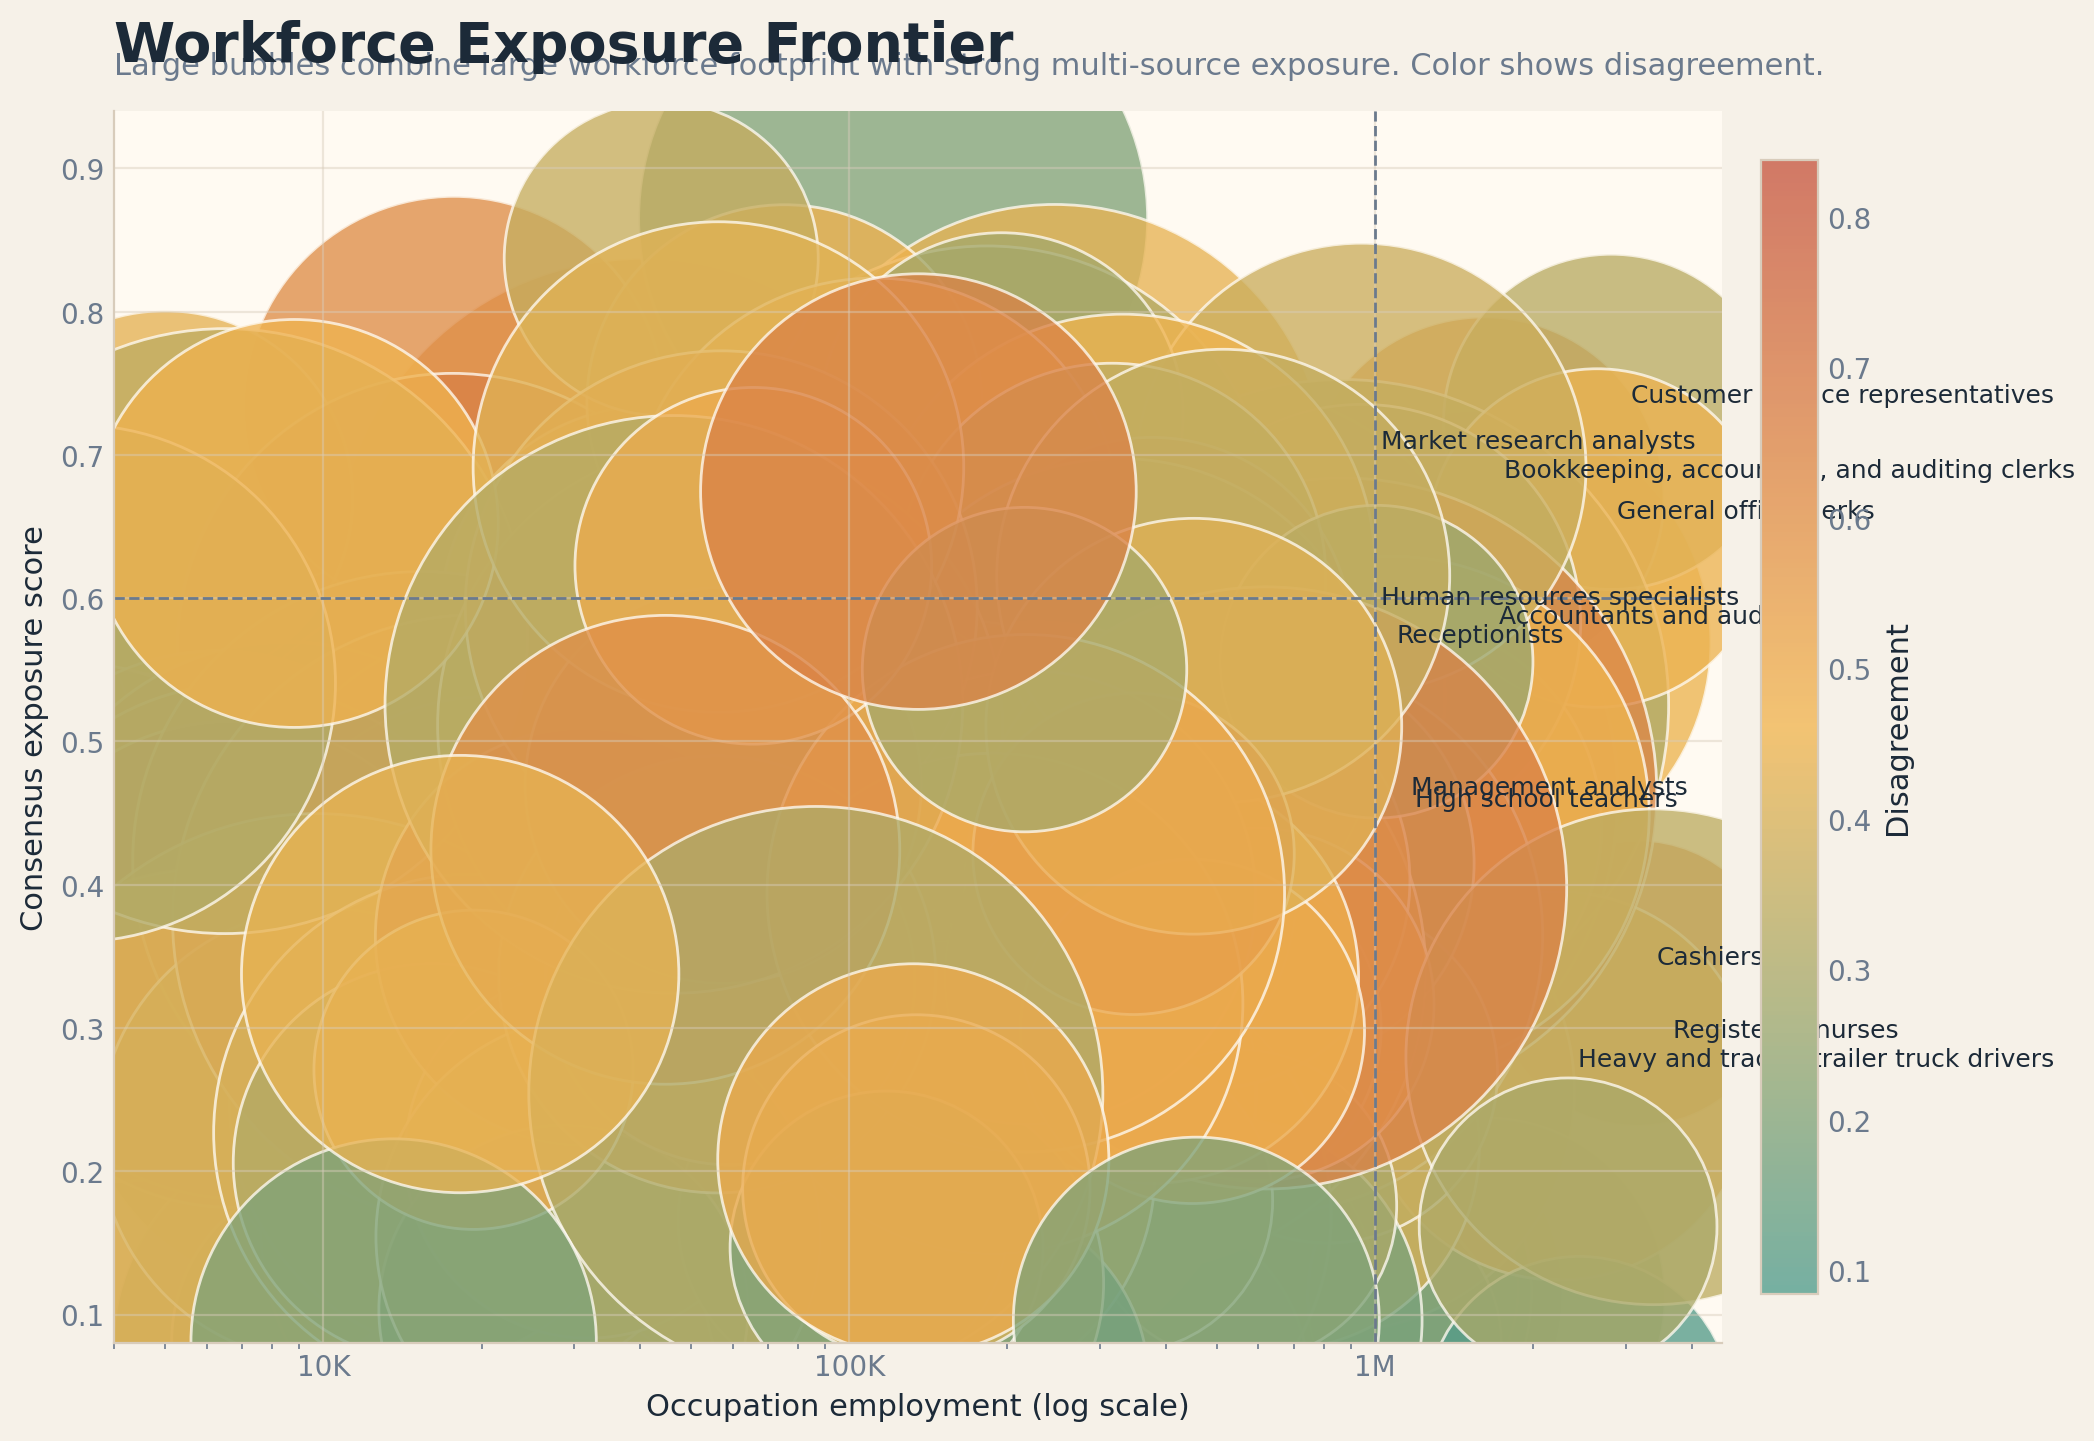
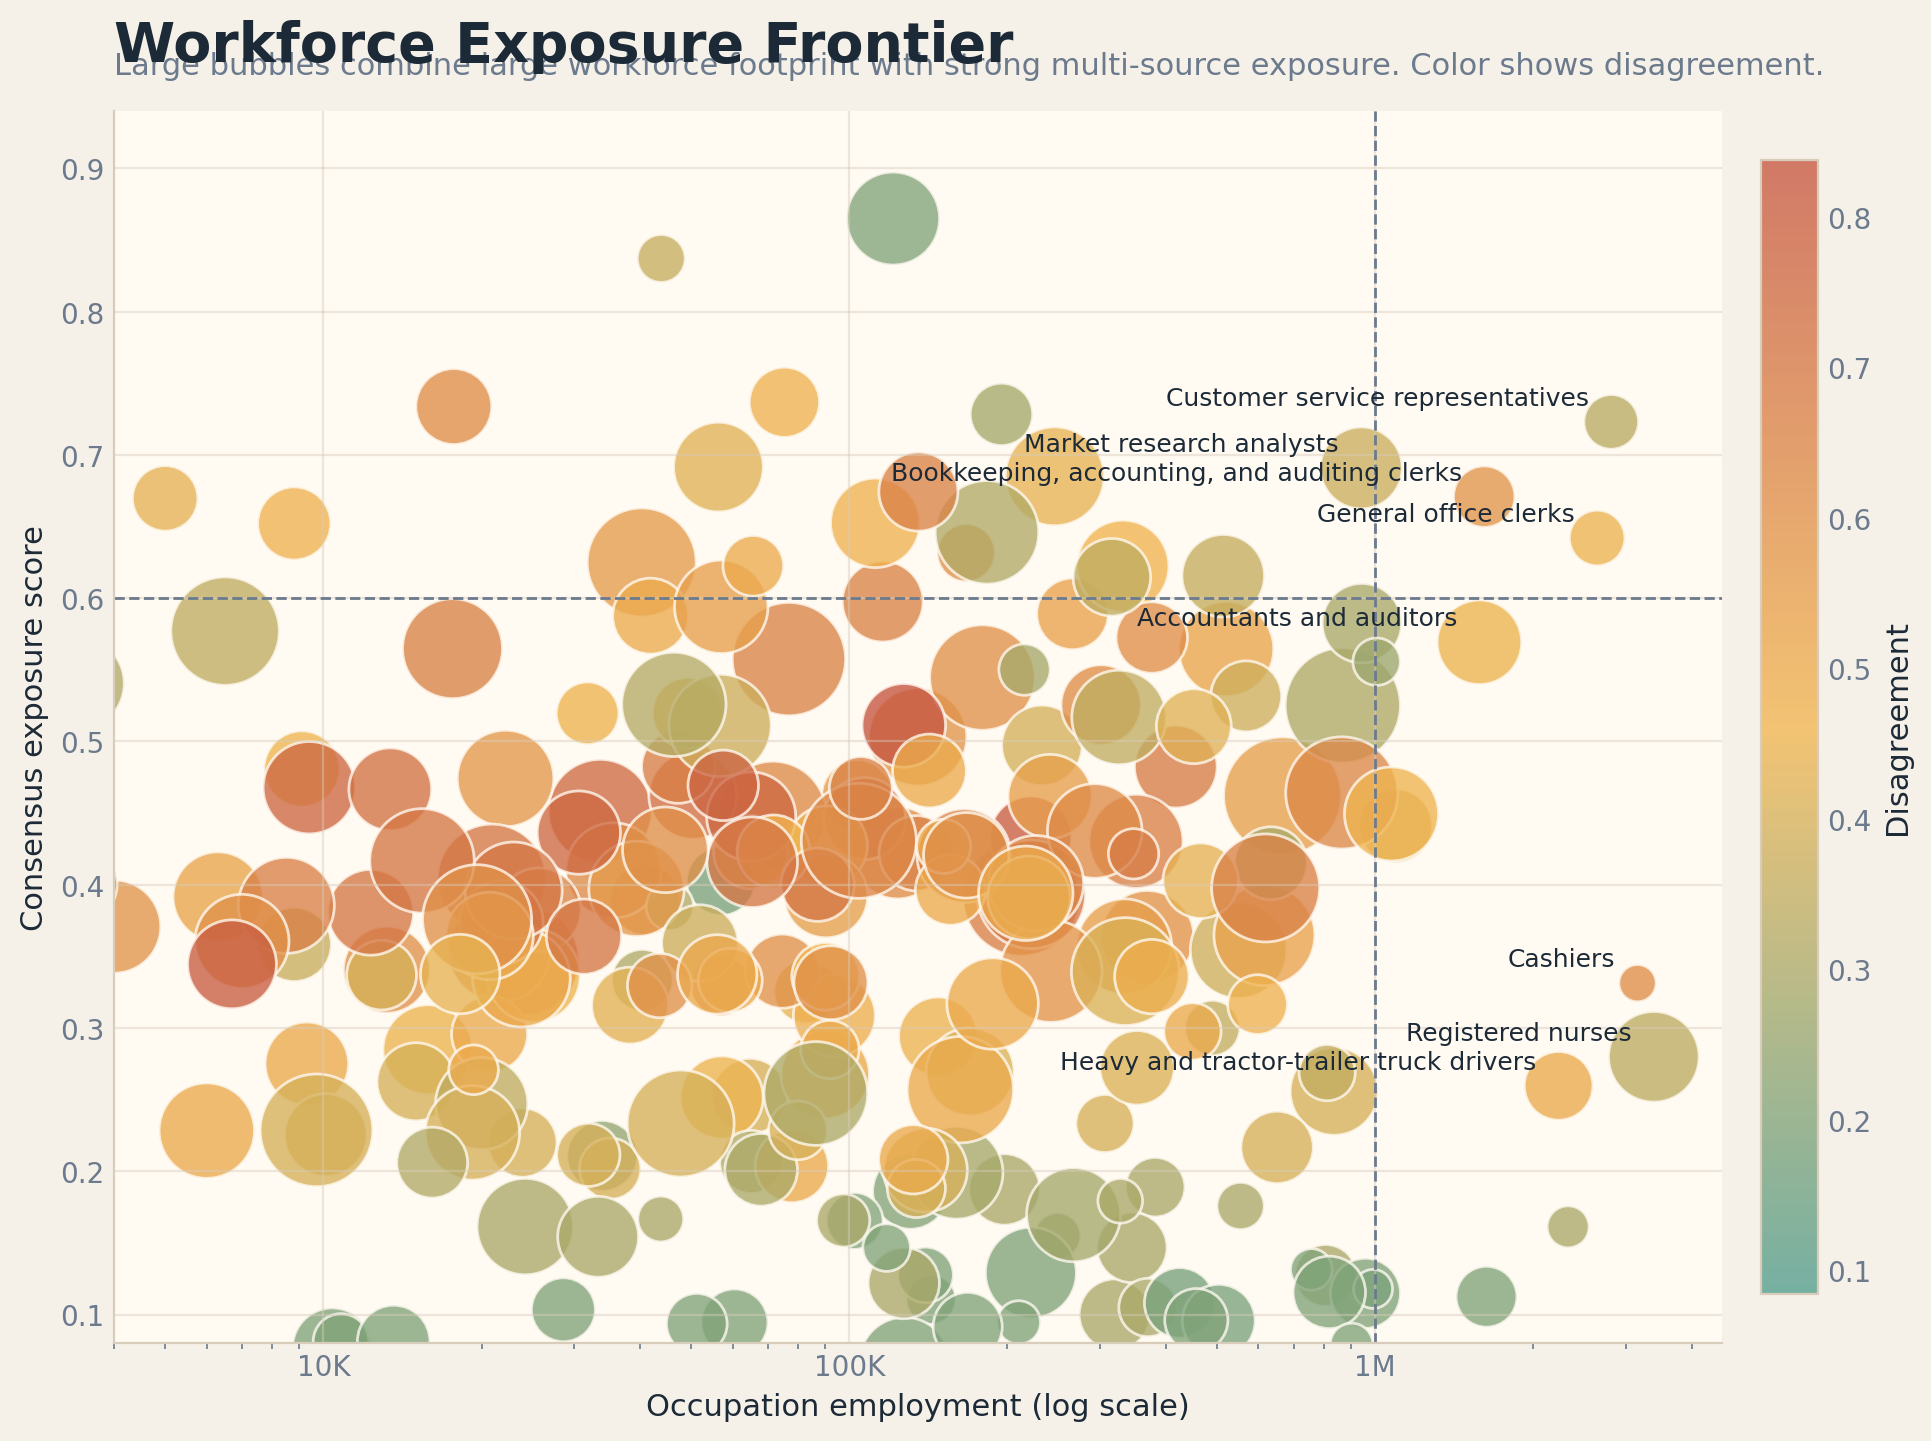
fix: restore atlas pages and rebalance frontier chart

diff --git a/build_readme_charts.py b/build_readme_charts.py
@@ -93,7 +93,11 @@ def build_workforce_frontier(df: pd.DataFrame) -> None:
     rows = df[df["coverage"] >= 3].copy()
     rows = rows.dropna(subset=["num_jobs_2024", "consensus_score", "disagreement", "median_pay_annual"])
     rows["impact"] = rows["num_jobs_2024"] * rows["consensus_score"]
-    rows["bubble"] = np.sqrt(rows["median_pay_annual"].clip(lower=30_000)) / 6
+    pay_root = np.sqrt(rows["median_pay_annual"].clip(lower=30_000))
+    if np.isclose(pay_root.min(), pay_root.max()):
+        rows["bubble_area"] = 700.0
+    else:
+        rows["bubble_area"] = np.interp(pay_root, (pay_root.min(), pay_root.max()), (180, 1800))
 
     fig, ax = plt.subplots(figsize=(12.5, 8))
     norm = Normalize(rows["disagreement"].min(), rows["disagreement"].max())
@@ -102,7 +106,7 @@ def build_workforce_frontier(df: pd.DataFrame) -> None:
     scatter = ax.scatter(
         rows["num_jobs_2024"],
         rows["consensus_score"],
-        s=(rows["bubble"] * 14) ** 2 / 16,
+        s=rows["bubble_area"],
         c=rows["disagreement"],
         cmap=cmap,
         norm=norm,
@@ -111,13 +115,16 @@ def build_workforce_frontier(df: pd.DataFrame) -> None:
         linewidths=1.0,
     )
 
-    labels = rows.nlargest(12, "impact")
+    labels = rows.nlargest(8, "impact")
+    right_label_threshold = rows["num_jobs_2024"].quantile(0.82)
     for _, row in labels.iterrows():
+        on_right_edge = row["num_jobs_2024"] >= right_label_threshold
         ax.annotate(
             row["title"],
             (row["num_jobs_2024"], row["consensus_score"]),
-            xytext=(7, 7),
+            xytext=(-8, 6) if on_right_edge else (7, 7),
             textcoords="offset points",
+            ha="right" if on_right_edge else "left",
             fontsize=9,
             color=TEXT,
         )
